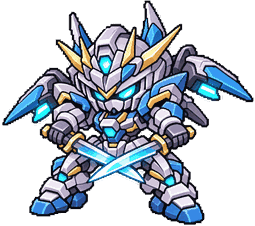
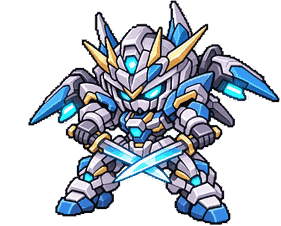
메카 얼굴을 카드 가운데로 맞추기
- 얼굴이 없는 메카는 자동 값이 무기·방패에 끌려가서, 눈 가운데를 재서 직접 정한 값을 써요
- 무기·꼬리가 한쪽으로 긴 붉은 드릴·암흑 도끼·푸른 쌍검은 반대쪽에 투명 칸을 덧대 얼굴을 가운데로(sheets.json center)

Claude-Session: https://claude.ai/code/session_01RqpauU3zsFqRJZgyJjgJgy

diff --git a/test/deco-single-art.test.ts b/test/deco-single-art.test.ts
@@ -65,7 +65,7 @@ function box(p: Png) {
 }
 
 const sheets = JSON.parse(readFileSync('assets/characters/sheets.json', 'utf8')) as {
-  deco: { file: string; single?: boolean; characters: [string, string][] }[];
+  deco: { file: string; single?: boolean; center?: number; characters: [string, string][] }[];
 };
 const singles = sheets.deco.filter((s) => s.single);
 const JOBS = ['astronaut', 'beekeeper', 'calligrapher', 'clockmaker', 'conductor', 'construction-worker', 'diver', 'farmer', 'lighthouse-keeper', 'puppeteer', 'firefighter', 'glassblower', 'brewer'];
@@ -77,11 +77,14 @@ describe('낱장 꾸밈 캐릭터 그림', () => {
     for (const s of singles) expect(s.characters.length).toBe(1);
   });
 
-  it.each(singles.map((s) => [s.characters[0]![0], s.file] as const))('%s: 빈 테두리만 자르고 떨어진 소품도 남아요', (id, file) => {
+  it.each(singles.map((s) => [s.characters[0]![0], s.file, s.center] as const))('%s: 빈 테두리만 자르고 떨어진 소품도 남아요', (id, file, center) => {
     const src = readPng(`assets/characters/${file}`);
     const out = readPng(`public/char/deco/${id}.png`);
     const want = box(src);
-    expect([out.w, out.h]).toEqual([want.w, want.h]);
+    // center가 있으면 얼굴이 가운데 오게 한쪽에 투명 칸을 덧대요(메카, 나리 2026-11-21)
+    const pad = center === undefined ? 0 : Math.round(Math.abs(2 * (want.w * center) / 100 - want.w));
+    const padLeft = center !== undefined && center < 50 ? pad : 0;
+    expect([out.w, out.h]).toEqual([want.w + pad, want.h]);
     // 원본에서 또렷한 픽셀(알파 128 이상)은 같은 자리에 모두 남아요: 시트 모드처럼 떨어진 조각을 지우면 빠져요.
     // (아주 옅은 가장자리 번짐은 색 128개로 줄일 때 투명으로 합쳐질 수 있어요)
     const left = Math.min(...[...Array(src.w).keys()].filter((x) => [...Array(src.h).keys()].some((y) => src.alpha[y * src.w + x]! > 0)));
@@ -89,7 +92,7 @@ describe('낱장 꾸밈 캐릭터 그림', () => {
     let lost = 0;
     for (let y = 0; y < src.h; y++)
       for (let x = 0; x < src.w; x++)
-        if (src.alpha[y * src.w + x]! >= 128 && out.alpha[(y - top) * out.w + (x - left)]! === 0) lost++;
+        if (src.alpha[y * src.w + x]! >= 128 && out.alpha[(y - top) * out.w + (x - left + padLeft)]! === 0) lost++;
     expect(lost).toBe(0);
     const meta = DECO_CHARACTERS.find((d) => d.id === id)!;
     expect([meta.w, meta.h]).toEqual([out.w, out.h]);

diff --git a/src/characters.ts b/src/characters.ts
@@ -239,11 +239,11 @@ export const DECO_CHARACTERS = [
   { id: 'mech-green-knight', name: '초록 기사 메카', w: 242, h: 249 },
   { id: 'mech-lancer', name: '보라 창 메카', w: 256, h: 229 },
   { id: 'mech-rifle', name: '빔 라이플 메카', w: 251, h: 248 },
-  { id: 'mech-drill', name: '붉은 드릴 메카', w: 246, h: 234 },
+  { id: 'mech-drill', name: '붉은 드릴 메카', w: 307, h: 234 },
   { id: 'mech-violet-axe', name: '보라 도끼 메카', w: 236, h: 250 },
   { id: 'mech-flame-sword', name: '불꽃 검 메카', w: 248, h: 247 },
-  { id: 'mech-dark-axe', name: '암흑 도끼 메카', w: 253, h: 231 },
+  { id: 'mech-dark-axe', name: '암흑 도끼 메카', w: 303, h: 231 },
   { id: 'mech-red-twin', name: '붉은 쌍검 메카', w: 250, h: 245 },
   { id: 'mech-gatling', name: '황금 개틀링 메카', w: 239, h: 230 },
-  { id: 'mech-blue-twin', name: '푸른 쌍검 메카', w: 255, h: 226 },
+  { id: 'mech-blue-twin', name: '푸른 쌍검 메카', w: 281, h: 226 },
 ] as const;

diff --git a/src/char-offsets.ts b/src/char-offsets.ts
@@ -192,14 +192,8 @@ export const CHAR_OFFSETS: Record<string, number> = {
   'deco/idol.png': -2.3,
   'deco/kimono.png': 2.9,
   'deco/lighthouse-keeper-boy.png': -3.5,
-  'deco/mech-cannon.png': 3.3,
-  'deco/mech-dark-axe.png': 3.3,
-  'deco/mech-drill.png': -3.3,
-  'deco/mech-flame-sword.png': 4.0,
-  'deco/mech-lancer.png': 3.3,
-  'deco/mech-red-twin.png': 3.1,
-  'deco/mech-rifle.png': 3.6,
-  'deco/mech-violet-axe.png': 1.5,
+  'deco/mech-lancer.png': 2.0,
+  'deco/mech-violet-axe.png': -2.0,
   'deco/monk.png': 4.5,
   'deco/monkey.png': 1.6,
   'deco/nurse.png': -4.9,

diff --git a/scripts/build_characters.py b/scripts/build_characters.py
@@ -82,12 +82,22 @@ def cut_sheet(path, rows):
     return out
 
 
-def cut_single(path):
-    """투명 배경 낱장 그림(캐릭터 한 명). 벌·물방울처럼 떨어진 소품도 지우지 않고 빈 테두리만 잘라요."""
+def cut_single(path, center=None):
+    """투명 배경 낱장 그림(캐릭터 한 명). 벌·물방울처럼 떨어진 소품도 지우지 않고 빈 테두리만 잘라요.
+
+    center: 얼굴이 잘라 낸 그림 가로의 몇 %에 있는지(눈으로 잰 값). 무기·꼬리가 한쪽으로 길어 카드에서
+    옮기는 것만으로는 얼굴이 가운데 오지 않는 그림은, 반대쪽에 투명한 칸을 덧대 얼굴을 그림 가운데로 맞춰요.
+    """
     img = np.array(Image.open(path).convert("RGBA"))
     ys, xs = np.where(img[..., 3] > 0)
     a = img[ys.min() : ys.max() + 1, xs.min() : xs.max() + 1].copy()
     a[..., :3][a[..., 3] == 0] = 0
+    if center is not None:
+        w = a.shape[1]
+        face = w * center / 100
+        pad = int(round(abs(2 * face - w)))
+        side = (pad, 0) if face < w / 2 else (0, pad)
+        a = np.pad(a, ((0, 0), side, (0, 0)))
     return a
 
 
@@ -100,7 +110,7 @@ def cut_characters(sheets):
             assert key not in seen, f"이름이 겹쳐요: {key}"
             seen.add(key)
         if sheet.get("single"):
-            sprites.append(cut_single(SRC / sheet["file"]))
+            sprites.append(cut_single(SRC / sheet["file"], sheet.get("center")))
         else:
             sprites += cut_sheet(SRC / sheet["file"], sheet["rows"])
         names += [tuple(c) for c in chars]

diff --git a/scripts/char_offsets.py b/scripts/char_offsets.py
@@ -82,6 +82,19 @@ MANUAL: dict[str, float] = {
     "deco/star-mage.png": 1.0,  # 나리 2026-11-21: 3.3은 너무 왼쪽, -1.5는 너무 오른쪽
     "deco/angel.png": 0.0,  # 나리 2026-11-21: 조금 더 오른쪽으로
     "deco/reaper.png": -2.5,  # 나리 2026-11-21: 살짝 왼쪽으로(-4.3에서)
+    # 메카(나리 2026-11-21 "가운데 맞추기"): 얼굴이 없어 자동 값이 무기·방패에 끌려가요. 얼굴(눈) 가운데를 눈으로 잰 값.
+    # 붉은 드릴·암흑 도끼·푸른 쌍검은 그림 자체에 투명 칸을 덧대 맞췄어요(sheets.json center).
+    "deco/mech-cannon.png": 0.0,
+    "deco/mech-green-knight.png": 0.0,
+    "deco/mech-lancer.png": 2.0,
+    "deco/mech-rifle.png": 0.0,
+    "deco/mech-drill.png": 0.0,
+    "deco/mech-violet-axe.png": -2.0,
+    "deco/mech-flame-sword.png": 0.0,
+    "deco/mech-dark-axe.png": 0.0,
+    "deco/mech-red-twin.png": 0.0,
+    "deco/mech-gatling.png": 0.0,
+    "deco/mech-blue-twin.png": 0.0,
 }
 
 
